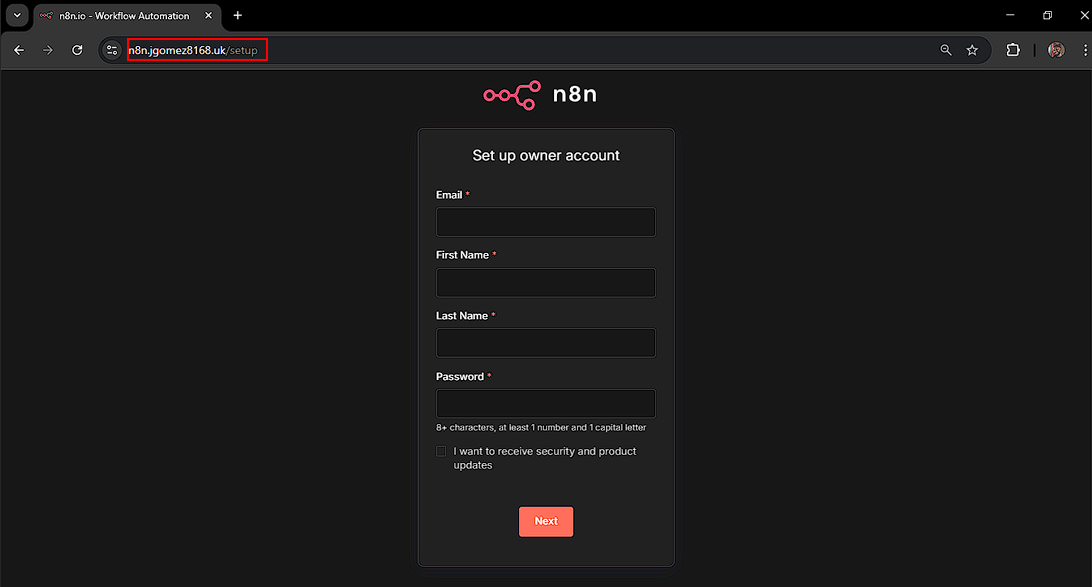
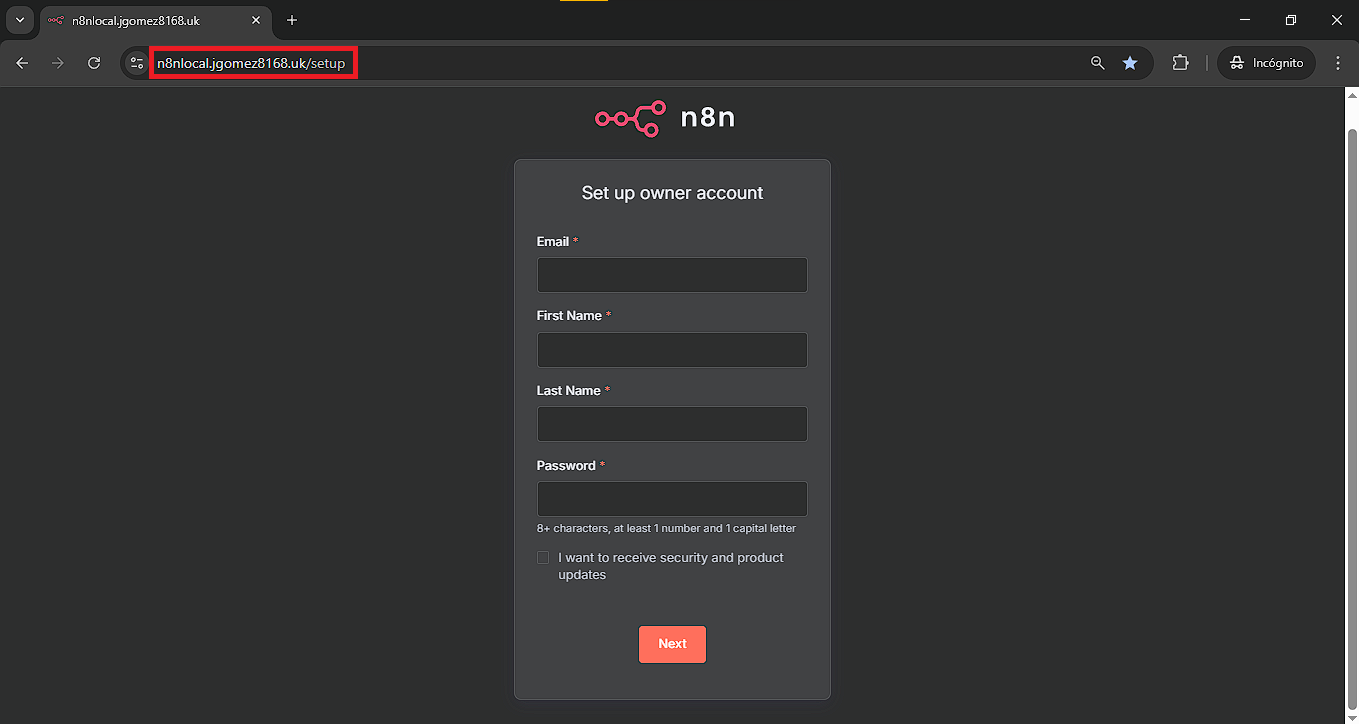
Readme para traefick

Changed region(s): [[0.3736, 0.1227, 0.6227, 1.0], [0.0, 0.0, 1.0, 1.0]]

diff --git a/n8n-compose-traefick/README.md b/n8n-compose-traefick/README.md
@@ -1,6 +1,6 @@
 # n8n (Docker Compose)
 
-Despliegue de n8n con PostgreSQL y base de datos vectorial: Integración de colecciones de embeddings y exposición segura mediante Cloudflare Tunnel.
+Despliegue de n8n con PostgreSQL y base de datos vectorial: Integración de colecciones de embeddings y exposición mediante Traefik.
 
 ### ¿Qué incluye?
 
@@ -10,7 +10,7 @@ Despliegue de n8n con PostgreSQL y base de datos vectorial: Integración de cole
 
 ✅ [**PostgreSQL**](https://www.postgresql.org/) -  El motor del mundo de la ingeniería de datos, maneja grandes volúmenes de información de forma segura y confiable.
 
-✅ [**Cloudflare Tunnel**](https://developers.cloudflare.com/cloudflare-one/networks/connectors/cloudflare-tunnel/) - Expone tus servicios en la web de forma segura sin abrir puertos, ideal para publicar n8n y otros servicios internos.
+✅ [**Traefik**](https://traefik.io/) - Expone tus servicios en la web de forma segura, ideal para publicar n8n y otros servicios internos.
 
 ## Requisitos
 
@@ -22,8 +22,6 @@ Necesitas un servidor **VPS o local** con:
 
 Además:
 
-- **Cloudflare Tunnel Token** (obligatorio si vas a exponer n8n por Cloudflare)
-  - Sigue el paso a paso del repositorio: [n8n-cloudflare-docker-compose](https://github.com/jgomez8168-maker/n8n-cloudflare)
 - **Gemini API Key** *(opcional, solo si quieres probar el flujo demo)*  
   - Crea tu API Key aquí: [Google AI Studio](https://aistudio.google.com/apikey?hl=es-419)
 
@@ -32,8 +30,8 @@ Además:
 ### 1) Clonar el repositorio
 
 ```bash
-git clone https://github.com/jgomez8168-maker/n8n-starter.git
-cd n8n-starter
+git clone https://github.com/jgomez8168/n8n.git
+cd n8n-compose-traefick
 cp .env.example .env # aqui debes configurar todas las variables
 ```
 
@@ -41,23 +39,34 @@ cp .env.example .env # aqui debes configurar todas las variables
 Edita el archivo .env y ajusta estas variables:
 
 - N8N_HOST=n8n.yourdomian.uk Nombre del host configurado en Cloudflare (tu subdominio/dominio).
-![Paso 1](assets/1.png)
+
 - WEBHOOK_URL=https://n8n.yourdomian.uk/ Debe ser la URL pública que va a usar n8n para webhooks.
 
 - GEMINI_API_KEY=your-api-key (opcional) Pega tu API key si quieres probar el flujo demo.
 
-- CLOUDFLARE_TUNNEL_TOKEN=your-cloudflare-token Token del último paso en Cloudflare Tunnel (del repo guía).
-![Paso 2](assets/2.png)
+- TRAEFIK_ACME_EMAIL=your-email (opcional).
 
 El archivo .env debería quedar:
 ![Paso 3](assets/3.png)
 
-### 3) Levantar los contenedores
+### 3) Configurar registros DNS
+
+En el proveedor de DNS donde administras tu dominio (por ejemplo, Hostinger, Cloudflare, etc.), agrega un registro de tipo A con la siguiente información:
+
+- Tipo: A
+- Host / Nombre: tuhost
+- Dirección IP: IP_DEL_SERVIDOR
+
+Este registro permitirá que el dominio apunte correctamente al servidor donde se ejecutará la aplicación.
+
+![Paso 7](assets/7.png)
+
+### 4) Levantar los contenedores
 Desde la raíz del proyecto:
 
 ```bash
 docker compose pull
-docekr compose create && docker compose up -d
+docker compose create && docker compose up -d
 ```
 Verifica que todo esté corriendo:
 
@@ -65,7 +74,7 @@ Verifica que todo esté corriendo:
 docker compose ps
 docker compose logs -f
 ```
-## 4) Abrir n8n
+## 5) Abrir n8n
 
 Ahora abre en tu navegador:
 https://N8N_HOST

diff --git a/n8n-compose-cloudflare/README.md b/n8n-compose-cloudflare/README.md
@@ -22,18 +22,26 @@ Necesitas un servidor **VPS o local** con:
 
 Además:
 
-- **Cloudflare Tunnel Token** (obligatorio si vas a exponer n8n por Cloudflare)
+- Un dominio registrado (por ejemplo: tudominio.com) y configurado en Cloudflare para usar **Cloudflare Tunnel** (obligatorio si vas a exponer n8n por Cloudflare)
+
   - Sigue el paso a paso del repositorio: [n8n-cloudflare-docker-compose](https://github.com/jgomez8168-maker/n8n-cloudflare)
+
+Opcional:
+
 - **Gemini API Key** *(opcional, solo si quieres probar el flujo demo)*  
   - Crea tu API Key aquí: [Google AI Studio](https://aistudio.google.com/apikey?hl=es-419)
+
+
+
+
 
 ## Instalación y despliegue
 
 ### 1) Clonar el repositorio
 
 ```bash
-git clone https://github.com/jgomez8168-maker/n8n-starter.git
-cd n8n-starter
+git clone https://github.com/jgomez8168/n8n.git
+cd n8n-compose-cloudflare
 cp .env.example .env # aqui debes configurar todas las variables
 ```
 
@@ -57,7 +65,7 @@ Desde la raíz del proyecto:
 
 ```bash
 docker compose pull
-docekr compose create && docker compose up -d
+docker compose create && docker compose up -d
 ```
 Verifica que todo esté corriendo:
 
